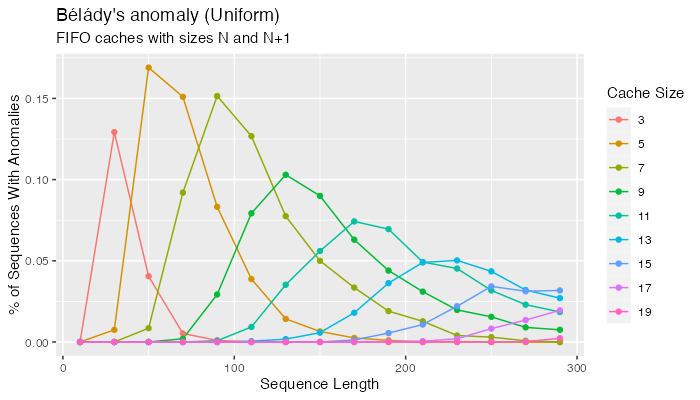
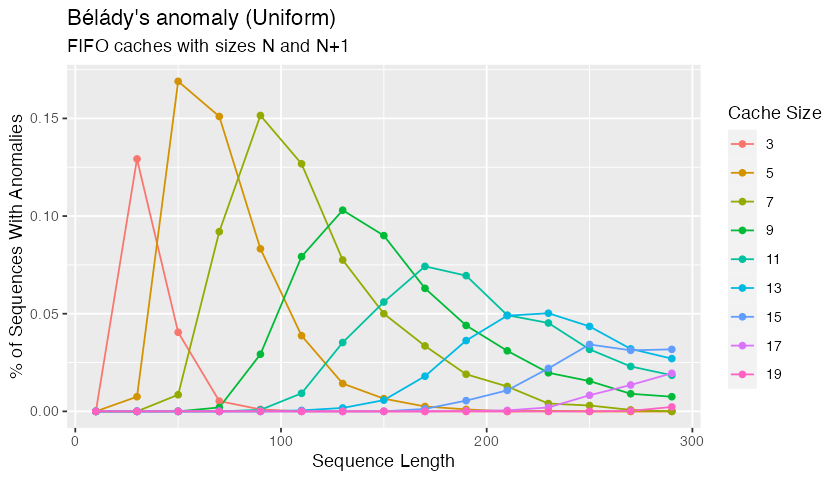
Improve images, minor edits

diff --git a/_posts/2023-06-23-belady.md b/_posts/2023-06-23-belady.md
@@ -16,7 +16,7 @@ What Bélády and team found is something now called [Bélády's anomaly](https:
 
 More generally, this can happen with any FIFO cache: growing the cache can lead to worse results. This could, in theory, be a big problem for any tuning system or process which makes the assumption that growing the cache leads to better performance<sup>[2](#foot2)</sup>. This doesn't happen with LRU, LFU, and similar algorithms. Just with FIFO. Some point to Bélády's anomaly as a good reason for avoiding FIFO caches, even in systems where the reduced read-time coordination and space overhead would be a big win.
 
-But how frequent is Bélády's anomaly really? Do we, as system builder, really need to avoid FIFO caches because of it?
+But how frequent is Bélády's anomaly really? Do we, as system builders, really need to avoid FIFO caches because of it?
 
 One way to answer that question is how often we're likely to come across Bélády's anomaly purely by chance. It turns out that it doesn't happen very often at all. Starting with access patterns selected randomly with a uniform distribution of keys:
 
@@ -36,6 +36,6 @@ As a systems builder, Bélády's anomaly isn't a big concern to me. As somebody 
 
 **Footnotes**
 
-1. <a name="foot1"></a> Weird enough that these days, paging is just *how computers work* for the vast majority of machines.
+1. <a name="foot1"></a> Weird enough that, these days, paging is just *how computers work* for the vast majority of machines.
 2. <a name="foot2"></a> As Cristina Abad [pointed out on Twitter](https://twitter.com/cabad3/status/1672071784328314880).
 3. <a name="foot3"></a> Like a lot of 1960s systems work, this paper is a delight. It's easy to read, just five pages, and full of interesting analysis. Even the title, *An anomaly in space-time characteristics of certain programs running in a paging machine*, is delightful. Why can't systems papers like this get published anymore?
